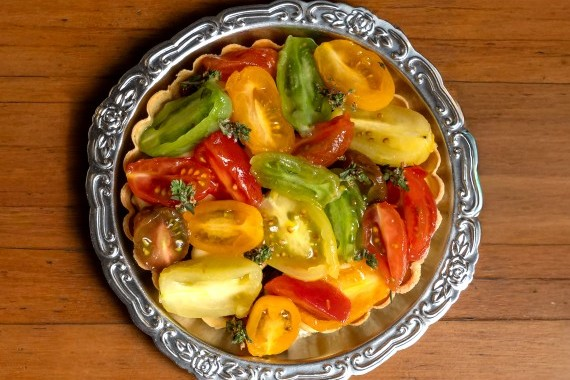
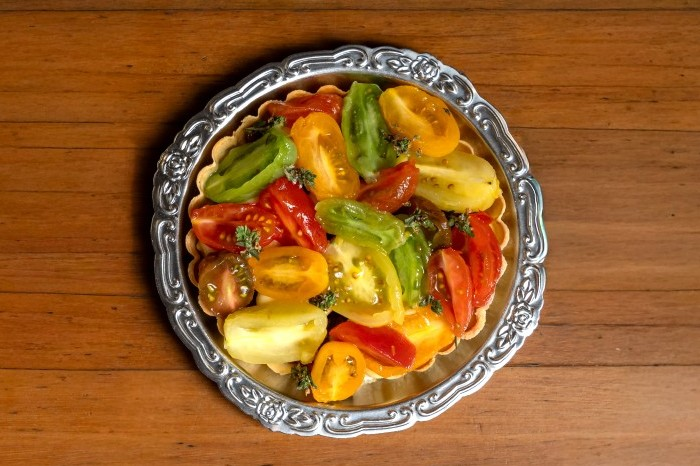
Homepage: PS40 night as a full spectacle; zoom out tomato tart photo
- Giant 24 November, live day countdown, 80 seats / 2 seatings / 1 night stats
- Drifting dish photo collage, ember glow, scrolling tickers, solid Reserve CTA
- Tart overhead crop pulled back slightly

Claude-Session: https://claude.ai/code/session_01Dp4x63EbASL7KSbn7w44ZR

diff --git a/assets/css/style.css b/assets/css/style.css
@@ -469,28 +469,6 @@ body.has-custom-cursor .cursor-flame { opacity: 1; }
 }
 
 /* ==========================================================================
-   Featured takeover — homepage banner between hero and previews
-   ========================================================================== */
-.featured-takeover {
-  position: relative; overflow: hidden;
-  background: radial-gradient(70% 160% at 12% 50%, color-mix(in srgb, var(--ember) 24%, transparent), transparent 65%), var(--ink);
-  border-bottom: 1px solid var(--cream-faint);
-  padding: var(--space-5) 0;
-}
-.featured-takeover-inner {
-  display: flex; flex-wrap: wrap; align-items: center; justify-content: space-between; gap: var(--space-4);
-}
-.featured-dates { margin: var(--space-1) 0; }
-.featured-scarcity {
-  font-size: 12px; letter-spacing: .18em; text-transform: uppercase; color: var(--cream-soft);
-}
-@media (max-width: 640px) {
-  .featured-takeover { padding: var(--space-4) 0; }
-  .featured-takeover-inner { flex-direction: column; align-items: flex-start; }
-  .featured-takeover-inner .btn { width: 100%; }
-}
-
-/* ==========================================================================
    Homepage previews — teaser cards linking out to each dedicated page
    ========================================================================== */
 .preview-grid {
@@ -872,23 +850,6 @@ body.has-custom-cursor .cursor-flame { opacity: 1; }
 .night-section { background: radial-gradient(80% 60% at 50% 0%, color-mix(in srgb, var(--ember) 12%, transparent), transparent 70%), var(--ink-2); scroll-margin-top: var(--header-h); }
 .ticket-dates { letter-spacing: -.01em; }
 
-/* Homepage banner */
-.featured-takeover-inner { flex-wrap: nowrap; align-items: stretch; gap: var(--space-5); }
-.featured-copy { display: flex; flex-direction: column; align-items: flex-start; gap: var(--space-1); }
-.featured-copy .featured-cta { margin-top: var(--space-3); }
-.featured-dates { font-size: clamp(56px, 9vw, 108px); }
-.featured-photos { display: grid; grid-template-columns: repeat(3, 1fr); gap: var(--space-2); flex: 0 1 460px; align-self: center; }
-.featured-photos img {
-  width: 100%; aspect-ratio: 3/4; object-fit: cover; display: block; border: 1px solid var(--cream-faint);
-  filter: saturate(.95) contrast(1.02);
-}
-.featured-photos img:nth-child(2) { transform: translateY(20px); }
-@media (max-width: 860px) {
-  .featured-takeover-inner { flex-direction: column; gap: var(--space-4); }
-  .featured-photos { flex: none; width: 100%; }
-  .featured-photos img:nth-child(2) { transform: none; }
-}
-@media (max-width: 640px) { .featured-copy .featured-cta { width: 100%; } }
 
 /* Takeovers menu section */
 .menu-courses { display: grid; grid-template-columns: repeat(3, minmax(0, 1fr)); gap: var(--space-5) var(--space-4); align-items: start; }
@@ -943,3 +904,89 @@ body.has-custom-cursor .cursor-flame { opacity: 1; }
   .dish-num { font-size: 44px; }
 }
 @media (max-width: 480px) { .dish-photos, .dish-row { gap: 6px; } }
+
+/* ==========================================================================
+   The night — homepage spectacle
+   ========================================================================== */
+.btn-solid { background: var(--ember); border-color: var(--ember); color: #0d0d0c; font-weight: 700; }
+.btn-solid:hover { background: var(--cream); border-color: var(--cream); color: #0d0d0c; }
+
+.spectacle {
+  position: relative; overflow: hidden; isolation: isolate;
+  background: var(--ink); border-bottom: 1px solid var(--cream-faint);
+  padding: 0 0 var(--space-5);
+}
+.spectacle-glow {
+  position: absolute; inset: -10% -10% auto -10%; height: 130%; z-index: -1; pointer-events: none;
+  background:
+    radial-gradient(55% 60% at 22% 45%, color-mix(in srgb, var(--ember) 34%, transparent), transparent 70%),
+    radial-gradient(40% 50% at 85% 70%, color-mix(in srgb, var(--ember) 16%, transparent), transparent 70%);
+  animation: spectacle-breathe 7s ease-in-out infinite alternate;
+}
+@keyframes spectacle-breathe { from { opacity: .75; transform: scale(1); } to { opacity: 1; transform: scale(1.06); } }
+
+.spectacle-ticker {
+  overflow: hidden; border-block: 1px solid var(--cream-faint); padding: 14px 0; white-space: nowrap;
+  background: color-mix(in srgb, var(--ink) 70%, transparent);
+}
+.spectacle-ticker-track { display: inline-flex; animation: marquee-scroll 38s linear infinite; }
+.spectacle-ticker.is-reverse .spectacle-ticker-track { animation-direction: reverse; }
+.spectacle-ticker span {
+  font-size: 12px; font-weight: 600; letter-spacing: .32em; text-transform: uppercase; color: var(--cream-soft);
+  padding: 0 var(--space-3); display: inline-flex; align-items: center; gap: var(--space-3);
+}
+.spectacle-ticker span::after { content: "\2726"; color: var(--ember); font-size: .8em; }
+.spectacle-ticker.is-reverse { margin-top: var(--space-5); }
+
+.spectacle-inner {
+  display: grid; grid-template-columns: minmax(0, 1.05fr) minmax(0, .95fr); gap: var(--space-5);
+  align-items: center; padding-top: var(--space-6);
+}
+.spectacle-date { display: flex; align-items: flex-end; gap: clamp(12px, 2vw, 24px); margin: var(--space-3) 0 var(--space-3); line-height: .8; }
+.spectacle-day {
+  font-family: var(--font-display); font-weight: 400; color: var(--ember);
+  font-size: clamp(130px, 17vw, 250px); letter-spacing: -.04em;
+  text-shadow: 0 0 80px color-mix(in srgb, var(--ember) 45%, transparent);
+}
+.spectacle-month {
+  font-family: var(--font-display); font-weight: 400; color: var(--cream);
+  font-size: clamp(30px, 4vw, 58px); line-height: 1; padding-bottom: .3em;
+}
+.spectacle-where { font-size: 12px; letter-spacing: .26em; text-transform: uppercase; color: var(--cream-soft); margin-bottom: var(--space-4); }
+.spectacle-stats {
+  list-style: none; margin: 0 0 var(--space-4); padding: var(--space-3) 0;
+  display: grid; grid-template-columns: repeat(4, auto); justify-content: start; gap: var(--space-4);
+  border-block: 1px solid var(--cream-faint);
+}
+.spectacle-stats li { display: flex; flex-direction: column; gap: 6px; }
+.spectacle-stats strong { font-family: var(--font-display); font-weight: 400; font-size: clamp(34px, 4.4vw, 56px); line-height: 1; color: var(--cream); }
+.spectacle-stats span { font-size: 10px; letter-spacing: .22em; text-transform: uppercase; color: var(--cream-soft); }
+.spectacle-line { font-size: clamp(15px, 1.7vw, 18px); line-height: 1.7; color: var(--cream-soft); max-width: 460px; margin-bottom: var(--space-4); }
+.spectacle-actions { display: flex; flex-wrap: wrap; align-items: center; gap: var(--space-3); }
+.spectacle-actions .btn { min-height: 56px; padding: 0 36px; font-size: 13px; }
+
+.spectacle-collage { position: relative; aspect-ratio: 1 / 1.08; width: 100%; }
+.sp-photo {
+  position: absolute; margin: 0; overflow: hidden; border: 1px solid color-mix(in srgb, var(--cream) 24%, transparent);
+  box-shadow: 0 40px 80px -30px rgba(0, 0, 0, .8); background: var(--ink-3);
+  will-change: transform; transform: translate3d(0, var(--drift, 0px), 0) rotate(var(--rot, 0deg));
+}
+.sp-photo img { width: 100%; height: 100%; object-fit: cover; display: block; }
+.sp-a { --rot: -2deg; left: 4%;  top: 0;    width: 50%; aspect-ratio: 2/3; z-index: 2; }
+.sp-b { --rot: 2.5deg; right: 0; top: 10%;  width: 46%; aspect-ratio: 3/2; z-index: 3; }
+.sp-c { --rot: 1.5deg; right: 6%; top: 40%; width: 36%; aspect-ratio: 2/3; z-index: 4; }
+.sp-d { --rot: -3deg; left: 0;  bottom: 2%; width: 52%; aspect-ratio: 4/3; z-index: 3; }
+
+@media (max-width: 980px) {
+  .spectacle-inner { grid-template-columns: 1fr; gap: var(--space-5); padding-top: var(--space-5); }
+  .spectacle-collage { max-width: 560px; margin-inline: auto; }
+}
+@media (max-width: 640px) {
+  .spectacle { padding-bottom: var(--space-4); }
+  .spectacle-ticker.is-reverse { margin-top: var(--space-4); }
+  .spectacle-stats { grid-template-columns: repeat(2, 1fr); gap: var(--space-3); }
+  .spectacle-actions .btn { width: 100%; }
+}
+@media (prefers-reduced-motion: reduce) {
+  .spectacle-glow, .spectacle-ticker-track { animation: none; }
+}

diff --git a/index.html b/index.html
@@ -111,21 +111,40 @@
     </a>
   </section>
 
-  <!-- ============ FEATURED TAKEOVER ============ -->
-  <section class="featured-takeover reveal" id="featured-takeover">
-    <div class="wrap featured-takeover-inner">
-      <div class="featured-copy">
-        <p class="eyebrow">One night only &middot; PS40</p>
-        <h2 class="ticket-dates featured-dates">24 <em>November</em></h2>
-        <p class="featured-scarcity"><span data-countdown>One night only</span> &middot; 80 seats &middot; two seatings</p>
-        <a href="takeovers.html" class="btn btn-primary featured-cta">See the night &amp; reserve</a>
+  <!-- ============ THE NIGHT (SPECTACLE) ============ -->
+  <section class="spectacle" id="featured-takeover" aria-labelledby="spectacleTitle">
+    <div class="spectacle-glow" aria-hidden="true"></div>
+    <div class="spectacle-ticker" aria-hidden="true"><div class="spectacle-ticker-track"><span>One night only</span><span>PS40</span><span>24 November</span><span>80 seats</span><span>Once it&rsquo;s gone, it&rsquo;s gone</span><span>One night only</span><span>PS40</span><span>24 November</span><span>80 seats</span><span>Once it&rsquo;s gone, it&rsquo;s gone</span><span>One night only</span><span>PS40</span><span>24 November</span><span>80 seats</span><span>Once it&rsquo;s gone, it&rsquo;s gone</span><span>One night only</span><span>PS40</span><span>24 November</span><span>80 seats</span><span>Once it&rsquo;s gone, it&rsquo;s gone</span></div></div>
+
+    <div class="wrap spectacle-inner">
+      <div class="spectacle-copy">
+        <p class="night-flag reveal"><span class="night-flag-dot" aria-hidden="true"></span>One night only &middot; PS40</p>
+        <h2 class="spectacle-date reveal" id="spectacleTitle"><span class="spectacle-day">24</span><span class="spectacle-month">November</span></h2>
+        <p class="spectacle-where reveal">Tuesday &middot; PS40, 40 King St, Sydney</p>
+
+        <ul class="spectacle-stats reveal">
+          <li><strong data-countdown-num>21</strong><span>Days to go</span></li>
+          <li><strong>80</strong><span>Seats, total</span></li>
+          <li><strong>2</strong><span>Seatings</span></li>
+          <li><strong>1</strong><span>Night</span></li>
+        </ul>
+
+        <p class="spectacle-line reveal">Seven plates cooked over fire. No second date &mdash; when it&rsquo;s done, it&rsquo;s gone.</p>
+        <div class="spectacle-actions reveal">
+          <a href="takeovers.html#seatings" class="btn btn-solid">Reserve a seat</a>
+          <a href="menu.html" class="link-arrow">See the menu <span class="arrow-nudge">&rarr;</span></a>
+        </div>
       </div>
-      <div class="featured-photos" aria-hidden="true">
-        <img src="assets/img/dish-pork-liver-sisig.jpg" alt="" loading="lazy">
-        <img src="assets/img/dish-garden-tomato-tart.jpg" alt="" loading="lazy">
-        <img src="assets/img/dish-olive-strawberry.jpg" alt="" loading="lazy">
+
+      <div class="spectacle-collage" aria-hidden="true">
+        <figure class="sp-photo sp-a" data-drift="-0.06"><img src="assets/img/dishes/chicken-2.jpg" alt="" loading="lazy"></figure>
+        <figure class="sp-photo sp-b" data-drift="0.05"><img src="assets/img/dishes/dessert-1.jpg" alt="" loading="lazy"></figure>
+        <figure class="sp-photo sp-c" data-drift="-0.03"><img src="assets/img/dishes/leeks-3.jpg" alt="" loading="lazy"></figure>
+        <figure class="sp-photo sp-d" data-drift="0.08"><img src="assets/img/dishes/sisig-1.jpg" alt="" loading="lazy"></figure>
       </div>
     </div>
+
+    <div class="spectacle-ticker is-reverse" aria-hidden="true"><div class="spectacle-ticker-track"><span>One night only</span><span>PS40</span><span>24 November</span><span>80 seats</span><span>Once it&rsquo;s gone, it&rsquo;s gone</span><span>One night only</span><span>PS40</span><span>24 November</span><span>80 seats</span><span>Once it&rsquo;s gone, it&rsquo;s gone</span><span>One night only</span><span>PS40</span><span>24 November</span><span>80 seats</span><span>Once it&rsquo;s gone, it&rsquo;s gone</span><span>One night only</span><span>PS40</span><span>24 November</span><span>80 seats</span><span>Once it&rsquo;s gone, it&rsquo;s gone</span></div></div>
   </section>
 
   <!-- ============ PREVIEWS ============ -->

diff --git a/assets/js/main.js b/assets/js/main.js
@@ -494,6 +494,28 @@
     else text = days + ' days to go';
     el.textContent = text;
   });
+  document.querySelectorAll('[data-countdown-num]').forEach(function (el) {
+    el.textContent = Math.max(Math.ceil((NIGHT_START - Date.now()) / DAY_MS), 0);
+  });
+
+  /* Spectacle collage — photos drift at slightly different speeds on scroll */
+  var driftEls = document.querySelectorAll('.sp-photo[data-drift]');
+  if (driftEls.length && !prefersReducedMotion) {
+    var driftTicking = false;
+    var driftUpdate = function () {
+      driftTicking = false;
+      driftEls.forEach(function (el) {
+        var r = el.parentNode.getBoundingClientRect();
+        if (r.bottom < -200 || r.top > window.innerHeight + 200) return;
+        var offset = (r.top + r.height / 2) - window.innerHeight / 2;
+        el.style.setProperty('--drift', (offset * parseFloat(el.getAttribute('data-drift'))).toFixed(1) + 'px');
+      });
+    };
+    window.addEventListener('scroll', function () {
+      if (!driftTicking) { driftTicking = true; window.requestAnimationFrame(driftUpdate); }
+    }, { passive: true });
+    driftUpdate();
+  }
 
   /* ========================================================================
      Misc

diff --git a/menu.html b/menu.html
@@ -137,7 +137,7 @@
         <div class="dish-photos">
           <div class="dish-row">
             <figure class="dish-photo" style="--ar:0.751"><img src="assets/img/dishes/tart-1.jpg" alt="Garden tomato tart on a silver plate" loading="lazy" width="577" height="768"></figure>
-            <figure class="dish-photo" style="--ar:1.5"><img src="assets/img/dishes/tart-2.jpg" alt="The tart from above on a timber table" loading="lazy" width="570" height="380"></figure>
+            <figure class="dish-photo" style="--ar:1.502"><img src="assets/img/dishes/tart-2.jpg" alt="The tart from above on a timber table" loading="lazy" width="700" height="466"></figure>
             <figure class="dish-photo" style="--ar:0.75"><img src="assets/img/dishes/tart-3.jpg" alt="Heirloom tomatoes and thyme in a fluted pastry case" loading="lazy" width="576" height="768"></figure>
           </div>
         </div>
